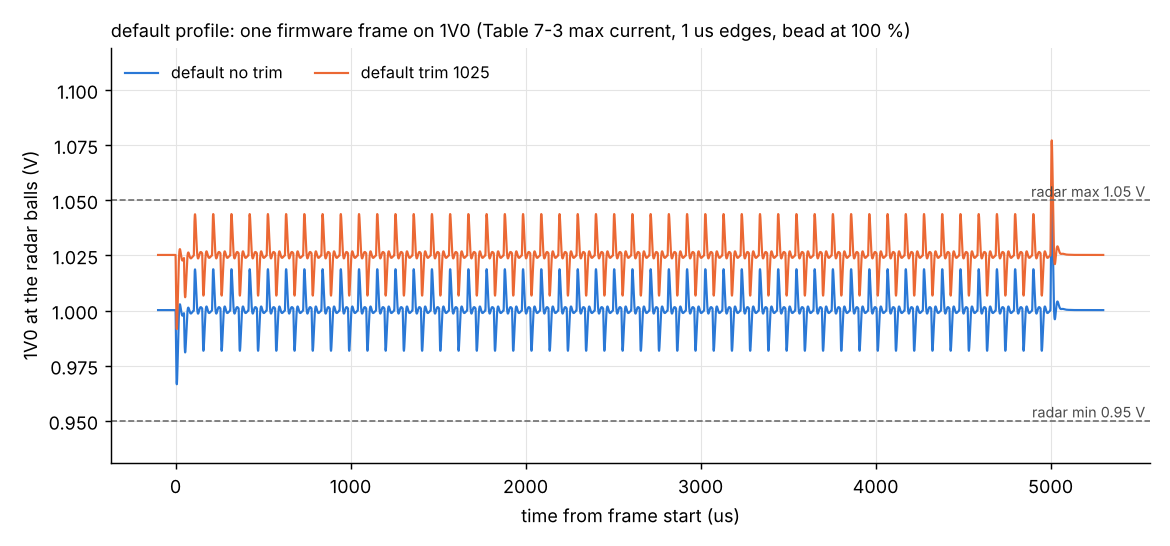
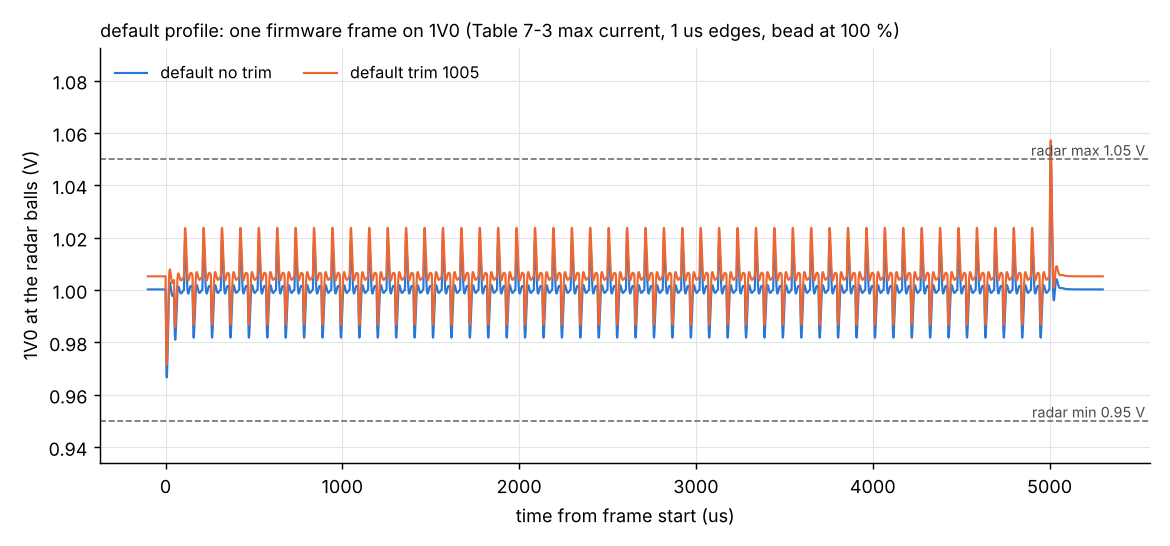
cosim: limit the Buck2 trim to 1005 mV, raw PMIC writes in the debug build only
The replay showed 1025 mV takes 1V0 over 1.05 V at frame end, and a bad
raw PMIC write locks the board until 5 V is removed. Scenarios and replay
re-run with the new limits.

Claude-Session: https://claude.ai/code/session_01PL5B9BkKxS1pc3ZYLJLHsL

diff --git a/cosim/run_cosim.py b/cosim/run_cosim.py
@@ -21,6 +21,7 @@ from sim.board import Board  # noqa: E402
 from sim.soc import VCLK  # noqa: E402
 
 ELF = HERE / "firmware" / "build" / "fw.elf"
+ELF_DEBUG = HERE / "firmware" / "build" / "fw_debug.elf"
 RES = HERE / "results"
 TRACES = RES / "traces"
 CAL = calib.load()
@@ -41,8 +42,8 @@ class Check:
         self.lines.append(f"  {text}")
 
 
-def fresh(**kw):
-    b = Board(str(ELF), **kw)
+def fresh(debug=False, **kw):
+    b = Board(str(ELF_DEBUG if debug else ELF), **kw)
     return b
 
 
@@ -147,7 +148,7 @@ def stream_default(c):
 
 
 def stream_trim(c):
-    b = _stream(c, "b_default_trim_1025", 1025)
+    b = _stream(c, "b_default_trim_1005", 1005)
     w = [(t, r, v) for t, r, v in b.pmic.writes if r == 0x0E]
     c.note("Buck2 VOUT writes: " + ", ".join(f"{t*1e3:.1f} ms 0x{v:02X}" for t, r, v in w))
     clean(c, b)
@@ -155,7 +156,7 @@ def stream_trim(c):
 
 def stress_3tx(c):
     cfg = ["chirpReset", "chirpCfg 0 0 0 0 0 0 0 7", "frameCfg 0 0 64 0 100"]
-    b = _stream(c, "c_3tx_simultaneous_trim_1025", 1025, cfg)
+    b = _stream(c, "c_3tx_simultaneous_trim_1005", 1005, cfg)
     clean(c, b)
 
 
@@ -164,16 +165,17 @@ def guards(c):
     b.preflash()
     b.plug_usb()
     booted(b)
-    c.expect("Error" in b.cli("pmicTrim 1100"), "pmicTrim 1100 refused (window 1000-1025 mV)")
+    c.expect("Error" in b.cli("pmicTrim 1025"), "pmicTrim 1025 refused (window 1000-1005 mV)")
     c.expect("Error" in b.cli("buck2 900"), "buck2 900 refused")
-    c.expect("Error" in b.cli("pmicWrite 0x0E 0x30"), "pmicWrite refused before debugUnlock")
+    c.expect("ignored" in b.cli("debugUnlock") and "ignored" in b.cli("pmicWrite 0x0E 0x30"),
+             "normal build has no raw PMIC write (debugUnlock, pmicWrite ignored)")
     c.expect(b.pmic.regs[0x0E] == 0x4D, "Buck2 untouched")
     clean(c, b)
 
 
 def bad_write(c):
-    """What a firmware bug writing the PMIC can do: Buck2 to 855 mV."""
-    b = c.board = fresh()
+    """What a raw PMIC write can do (debug build): Buck2 to 855 mV."""
+    b = c.board = fresh(debug=True)
     b.preflash()
     b.plug_usb()
     booted(b)
@@ -254,7 +256,7 @@ def host_disable(c):
     b.carrier_power()
     b.preflash()
     booted(b, port=b.car_uart)
-    b.cli("pmicTrim 1025")
+    b.cli("pmicTrim 1005")
     b.cli("sensorStart", 0.3)
     b.run(0.25)
     n0 = len(b.car_uart.data)
@@ -277,7 +279,7 @@ def carrier_reset(c):
     b.carrier_power()
     b.preflash()
     booted(b, port=b.car_uart)
-    b.cli("pmicTrim 1025")
+    b.cli("pmicTrim 1005")
     b.cli("sensorStart", 0.3)
     b.run(0.25)
     trimmed = b.pmic.regs[0x0E]
@@ -287,9 +289,9 @@ def carrier_reset(c):
     b.carrier_reset(False)
     ok = booted(b, port=b.car_uart, timeout=0.3, start=n0)
     txt = b.car_uart.data[n0:].decode("latin-1")
-    c.expect(trimmed == 0x52, "streaming with Buck2 at 1025 mV (0x52)")
-    c.expect(ok and "registers kept" in txt and "Buck2 1025 mV" in txt,
-             "HOST_NRESET pulse mid-stream: radar resets, PMIC keeps 1025 mV, firmware notices at boot")
+    c.expect(trimmed == 0x4E, "streaming with Buck2 at 1005 mV (0x4E)")
+    c.expect(ok and "registers kept" in txt and "Buck2 1005 mV" in txt,
+             "HOST_NRESET pulse mid-stream: radar resets, PMIC keeps 1005 mV, firmware notices at boot")
     c.expect("Buck2 back to 1000" in txt and b.pmic.regs[0x0E] == 0x4D, "firmware puts Buck2 back to 1000 mV")
     clean(c, b)
 
@@ -299,7 +301,7 @@ def usb_dropout(c):
     b.preflash()
     b.plug_usb()
     booted(b)
-    b.cli("pmicTrim 1025")
+    b.cli("pmicTrim 1005")
     b.cli("sensorStart", 0.3)
     b.run(0.2)
     for gap, expect in ((0.1e-3, "kept"), (1e-3, "fresh")):
@@ -311,7 +313,7 @@ def usb_dropout(c):
         txt = b.eci.data[n0:].decode("latin-1")
         c.expect(ok, f"USB dropout of {gap*1e3:.1f} ms: radar resets and boots again")
         c.note(f"  banner: {[l for l in txt.splitlines() if 'PMIC' in l]}")
-        b.cli("pmicTrim 1025")
+        b.cli("pmicTrim 1005")
         b.cli("sensorStart", 0.3)
         b.run(0.15)
     clean(c, b)
@@ -335,10 +337,10 @@ SCENARIOS = [
     ("usb_boot", "USB power-up: rails, supervisor, boot ROM, firmware, PMIC over I2C", usb_boot),
     ("carrier_boot", "Carrier power (J400/J401) only, CLI over the carrier UART", carrier_boot),
     ("stream_default", "Default TDM-MIMO profile, 10 frames, no 1V0 trim", stream_default),
-    ("stream_trim", "Same with the 1V0 trim to 1025 mV while running", stream_trim),
-    ("stress_3tx", "Three TX at once (LDO bypass), 64 chirps per frame, trim 1025 mV", stress_3tx),
+    ("stream_trim", "Same with the 1V0 trim to 1005 mV while running", stream_trim),
+    ("stress_3tx", "Three TX at once (LDO bypass), 64 chirps per frame, trim 1005 mV", stress_3tx),
     ("guards", "Firmware limits on PMIC writes", guards),
-    ("bad_pmic_write", "Firmware bug: Buck2 written to 855 mV", bad_write),
+    ("bad_pmic_write", "Debug build: raw write puts Buck2 at 855 mV", bad_write),
     ("flash_uart", "UniFlash-style programming in SOP 101, then boot", flash_uart),
     ("flash_no_qe", "Programmed without the QE bit", flash_no_qe),
     ("flash_reset_wip", "RESET pressed while the QE write is still busy", flash_reset_wip),
@@ -350,7 +352,7 @@ SCENARIOS = [
 
 
 def main(names):
-    if not ELF.exists():
+    if not (ELF.exists() and ELF_DEBUG.exists()):
         sys.exit("build the firmware first: make -C firmware")
     RES.mkdir(exist_ok=True)
     out, n_fail = [], 0

diff --git a/cosim/firmware/src/main.c b/cosim/firmware/src/main.c
@@ -19,7 +19,9 @@
 
 #define PROMPT "aop:/>"
 
+#ifdef FW_DEBUG_PMIC
 static bool debug_unlocked;
+#endif
 static uint32_t telemetry_buck2_ma, telemetry_buck3_ma;        /* between frames */
 static uint32_t telemetry_buck2_frame_ma, telemetry_buck3_frame_ma; /* while chirping */
 static uint32_t pmic_flags_seen;
@@ -155,6 +157,9 @@ static void cli_exec(char *line)
     } else if (!strcmp(cmd, "temp")) {
         st = radar_get_temp(&radar.temp_mc);
         uprintf(&sci_cli, "radar temperature %d mC\n", (int)radar.temp_mc);
+#ifdef FW_DEBUG_PMIC
+    /* Raw PMIC writes bypass every range check. A bad Buck write makes the supervisor hold the
+     * radar in reset and only removing 5 V recovers the board, so this is a debug build only. */
     } else if (!strcmp(cmd, "debugUnlock")) {
         debug_unlocked = true;
     } else if (!strcmp(cmd, "pmicWrite") && argc >= 3) {
@@ -162,6 +167,7 @@ static void cli_exec(char *line)
             st = -30;
         else
             st = pmic_raw_write((uint8_t)strtoul(argv[1], 0, 0), (uint8_t)strtoul(argv[2], 0, 0));
+#endif
     } else if (!strcmp(cmd, "channelCfg") && argc >= 3) {
         radar_cfg.rx_mask = (uint32_t)atoi(argv[1]);
         radar_cfg.tx_mask = (uint32_t)atoi(argv[2]);

diff --git a/cosim/firmware/src/board.h b/cosim/firmware/src/board.h
@@ -43,6 +43,6 @@ struct pinmux_entry {
  * the PMIC is 2 % accurate (spec 3.2), so the setpoint must stay <= 1.025 V to keep the
  * worst-case DC level under 1.05 V. SNVSAW2B: with VIN > 4 V do not set an output under 1.0 V. */
 #define BUCK2_MV_MIN 1000u
-#define BUCK2_MV_MAX 1025u
+#define BUCK2_MV_MAX 1005u   /* cosim/results/replay_summary.txt: higher pushes 1V0 over 1.05 V at frame end */
 
 #endif

diff --git a/cosim/README.md b/cosim/README.md
@@ -35,7 +35,7 @@ Assumptions that are not from a datasheet are marked `[assumption]` in the code.
 Needs `arm-none-eabi-gcc` (Ubuntu: `gcc-arm-none-eabi`), Python 3.10+ with `pip install unicorn==2.1.4 numpy matplotlib`, and ngspice for the replay. `simulation/results/` must be present (it is in the repository).
 
 ```
-make -C cosim/firmware
+make -C cosim/firmware                 # build/fw.elf, and build/fw_debug.elf with raw PMIC writes
 python3 cosim/run_cosim.py              # about 40 s, writes results/cosim_summary.txt and results/traces/
 python3 cosim/replay/replay_rails.py    # about 1 min, writes results/replay_summary.txt and replay_*.png
 python3 cosim/run_cosim.py usb_boot     # one scenario, printed only
@@ -47,14 +47,14 @@ All 14 scenarios pass (`results/cosim_summary.txt`):
 
 - **Power-up and boot**, from USB or from the carrier: reset releases at 29.64 ms, the ROM starts the image 6 ms later, the firmware reads the PMIC at 400 kHz (OTP_REV 0x72) and the CLI answers on the right port. No rule violations, no unmodelled register accesses.
 - **Streaming**: the default TDM-MIMO profile and a three-TX-at-once profile start (LDO bypass first), stream TI-style packets at 460800 Bd with no framing errors, and the PMIC current readback reports 1040 mA (one TX) and 1500 mA (three TX) on Buck2 during chirps.
-- **Trim**: the firmware sets Buck2 to 1025 mV only while the radar runs and goes back to 1000 mV on stop. After a HOST_NRESET pulse, a HOST_DISABLE pulse or a 0.1 ms USB dropout the PMIC keeps its registers. The firmware sees that (RESET_REG clear) at boot and restores 1000 mV. After a 1 ms dropout the PMIC reloads its OTP values.
+- **Trim**: the firmware sets Buck2 to the trim (at most 1005 mV) only while the radar runs and goes back to 1000 mV on stop. After a HOST_NRESET pulse, a HOST_DISABLE pulse or a 0.1 ms USB dropout the PMIC keeps its registers. The firmware sees that (RESET_REG clear) at boot and restores 1000 mV. After a 1 ms dropout the PMIC reloads its OTP values.
 - **Flashing**: SOP 101 programming then RESET boots. Without the QE bit the board does not boot (as in spec §4.2). RESET pressed within 40 ms of the QE write also fails to boot (MSS#45); a second reset boots.
-- **Firmware limits**: trims outside 1000-1025 mV and raw PMIC writes without `debugUnlock` are refused.
+- **Firmware limits**: trims outside 1000-1005 mV are refused. The raw PMIC write (`debugUnlock`, `pmicWrite`) exists only in `fw_debug.elf`.
 
 Two findings for the firmware and the bench:
 
-1. **A bad PMIC write locks the board until power is removed.** With Buck2 written to 855 mV, the supervisor holds the radar in reset, so the firmware cannot undo the write. HOST_DISABLE does not help, because EN1 does not reload the PMIC registers. Only removing 5 V for more than about 0.3 ms does. Keep every PMIC write behind range checks, as this firmware does. A carrier that controls the module's 5 V can recover it.
-2. **The 1025 mV trim pushes 1V0 over 1.05 V when the chirps stop** (`results/replay_summary.txt`, `replay_1V0.png`). With the remote sense, 1V0 at the radar already sits at 1.000 V and the dip and overshoot are about the same size. Raising the setpoint moves both up: up to 1.077 V for about 10 µs at frame end with the default profile and Table 7-3 worst-case current. Without the trim, the default profile stays inside 0.95-1.05 V in 3 of 4 cases (worst: 1.052 V for 3 µs). Each case lists the setpoint range that would fit, which is about 0.98-1.00 V. With three TX at once and 1 µs edges, no setpoint fits: there is 145 mV peak to peak, against a 100 mV window. Recommendation: leave Buck2 at 1000 mV until the first boards are measured (spec §9). Then set the trim from the measured dip and overshoot at the radar, not from the DC level. The excursions are far below the 1.4 V absolute maximum. 1V8 passes in every case.
+1. **A bad PMIC write locks the board until power is removed.** With Buck2 written to 855 mV, the supervisor holds the radar in reset, so the firmware cannot undo the write. HOST_DISABLE does not help, because EN1 does not reload the PMIC registers. Only removing 5 V for more than about 0.3 ms does. So the normal build only writes the PMIC through range-checked calls, and the raw write command is in the debug build only. A carrier that controls the module's 5 V can recover it.
+2. **A 1025 mV trim pushes 1V0 over 1.05 V when the chirps stop** (`results/replay_summary.txt`, `replay_1V0.png`). With the remote sense, 1V0 at the radar already sits at 1.000 V and the dip and overshoot are about the same size. Raising the setpoint moves both up: at 1025 mV the first version of this replay reached 1.077 V for about 10 µs at frame end with the default profile and Table 7-3 worst-case current. The firmware's trim window is therefore now 1000-1005 mV; at 1005 mV the worst case is 1.057 V for 6 µs (1 µs edges, bead at zero bias) and the other three cases pass. Without the trim, the default profile stays inside 0.95-1.05 V in 3 of 4 cases (worst: 1.052 V for 3 µs). Each case lists the setpoint range that would fit, which is about 0.98-1.00 V. With three TX at once and 1 µs edges, no setpoint fits: there is 145 mV peak to peak, against a 100 mV window. Recommendation: leave Buck2 at 1000 mV until the first boards are measured (spec §9). Then set the trim from the measured dip and overshoot at the radar, not from the DC level. The excursions are far below the 1.4 V absolute maximum. 1V8 passes in every case.
 
 The 921600 Bd data rate is marginal: the SCI has no fractional divider and makes 892857 Bd (-3.3 % against the CP2105). The firmware uses 460800 (+0.3 %).
 

diff --git a/CHANGELOG.md b/CHANGELOG.md
@@ -6,7 +6,7 @@ All notable changes are documented here, following [Keep a Changelog](https://ke
 
 ### Added
 
-- `cosim/`: bare-metal test firmware for the radar's R4F, run on a model of the board (power tree, supervisor, PMIC over I²C, boot ROM and flash, USB bridge, carrier). Includes 14 scenarios and an ngspice replay of the firmware's chirp load on 1V0 and 1V8. The replay shows the 1025 mV Buck2 trim takes 1V0 over 1.05 V at frame end.
+- `cosim/`: bare-metal test firmware for the radar's R4F, run on a model of the board (power tree, supervisor, PMIC over I²C, boot ROM and flash, USB bridge, carrier). Includes 14 scenarios and an ngspice replay of the firmware's chirp load on 1V0 and 1V8. The replay shows a 1025 mV Buck2 trim takes 1V0 over 1.05 V at frame end, so the firmware limits the trim to 1000-1005 mV; raw PMIC writes are in the debug build only.
 
 ## [1.1] - 2026-11-15
 
